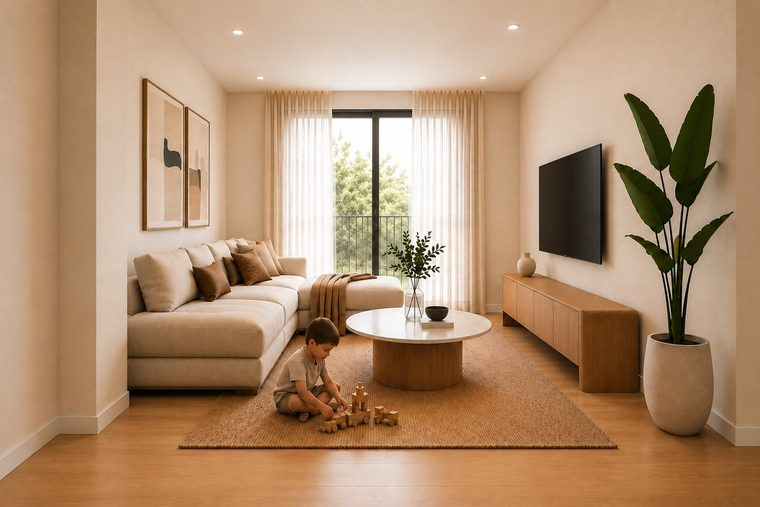
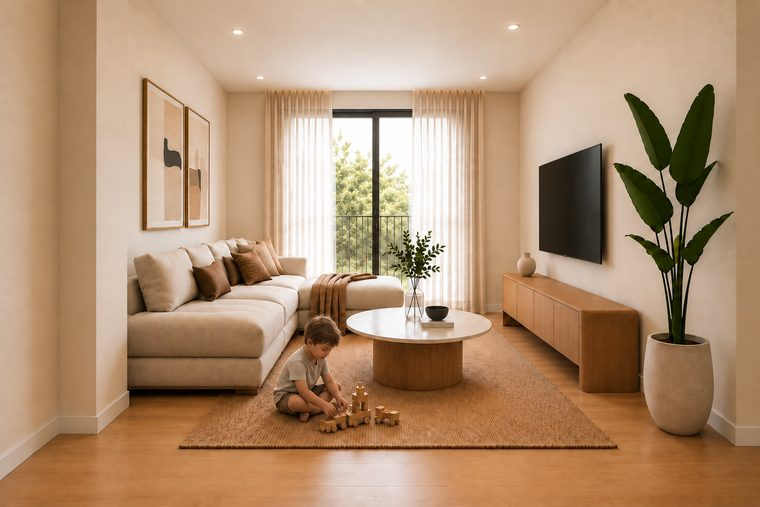
Galería: nuevo render del salón (versión retocada)

diff --git a/fr/index.html b/fr/index.html
@@ -347,7 +347,7 @@
       <figure class="gA rv"><picture><source media="(max-width:760px)" srcset="/assets/img/foto-terraza-m.webp" type="image/webp"><source media="(max-width:760px)" srcset="/assets/img/foto-terraza-m.jpg"><source srcset="/assets/img/foto-terraza.webp" type="image/webp"><img src="/assets/img/foto-terraza.jpg" alt="Solarium privé avec bains de soleil, table et jardinières" loading="lazy" decoding="async" width="1254" height="1254"></picture></figure>
       <figure class="gB rv"><picture><source media="(max-width:760px)" srcset="/assets/img/foto-cocina-m.webp" type="image/webp"><source media="(max-width:760px)" srcset="/assets/img/foto-cocina-m.jpg"><source srcset="/assets/img/foto-cocina.webp" type="image/webp"><img src="/assets/img/foto-cocina.jpg" alt="Cuisine aux façades ton bois avec table à manger" loading="lazy" decoding="async" width="1086" height="1448"></picture></figure>
       <div class="gq rv"><p class="serif it">Le soleil en hiver, les dîners en plein air en été.</p></div>
-      <figure class="gC rv"><picture><source media="(max-width:760px)" srcset="/assets/img/foto-salon-m.webp" type="image/webp"><source media="(max-width:760px)" srcset="/assets/img/foto-salon-m.jpg"><source srcset="/assets/img/foto-salon.webp" type="image/webp"><img src="/assets/img/foto-salon.jpg" alt="Séjour avec canapé, tapis et baie vitrée" loading="lazy" decoding="async" width="1536" height="1024"></picture></figure>
+      <figure class="gC rv"><picture><source media="(max-width:760px)" srcset="/assets/img/foto-salon-m.webp?v=2" type="image/webp"><source media="(max-width:760px)" srcset="/assets/img/foto-salon-m.jpg?v=2"><source srcset="/assets/img/foto-salon.webp?v=2" type="image/webp"><img src="/assets/img/foto-salon.jpg?v=2" alt="Séjour avec canapé, tapis et baie vitrée" loading="lazy" decoding="async" width="1536" height="1024"></picture></figure>
       <figure class="gD rv"><picture><source media="(max-width:760px)" srcset="/assets/img/foto-dormitorio2-m.webp" type="image/webp"><source media="(max-width:760px)" srcset="/assets/img/foto-dormitorio2-m.jpg"><source srcset="/assets/img/foto-dormitorio2.webp" type="image/webp"><img src="/assets/img/foto-dormitorio2.jpg" alt="Chambre avec tête de lit capitonnée et baie vitrée" loading="lazy" decoding="async" width="1122" height="1402"></picture></figure>
       <figure class="g5 rv"><picture><source media="(max-width:760px)" srcset="/assets/img/foto-fachada-noche-m.webp" type="image/webp"><source media="(max-width:760px)" srcset="/assets/img/foto-fachada-noche-m.jpg"><source srcset="/assets/img/foto-fachada-noche.webp" type="image/webp"><img src="/assets/img/foto-fachada-noche.jpg" alt="Façade de l’immeuble illuminée à la tombée de la nuit" loading="lazy" decoding="async" width="1448" height="1086"></picture></figure>
       <figure class="g5 rv"><picture><source media="(max-width:760px)" srcset="/assets/img/foto-bano-m.webp" type="image/webp"><source media="(max-width:760px)" srcset="/assets/img/foto-bano-m.jpg"><source srcset="/assets/img/foto-bano.webp" type="image/webp"><img src="/assets/img/foto-bano.jpg" alt="Salle de bains avec douche vitrée et meuble suspendu" loading="lazy" decoding="async" width="1122" height="1402"></picture></figure>

diff --git a/en/index.html b/en/index.html
@@ -347,7 +347,7 @@
       <figure class="gA rv"><picture><source media="(max-width:760px)" srcset="/assets/img/foto-terraza-m.webp" type="image/webp"><source media="(max-width:760px)" srcset="/assets/img/foto-terraza-m.jpg"><source srcset="/assets/img/foto-terraza.webp" type="image/webp"><img src="/assets/img/foto-terraza.jpg" alt="Private roof terrace with sun loungers, table and planters" loading="lazy" decoding="async" width="1254" height="1254"></picture></figure>
       <figure class="gB rv"><picture><source media="(max-width:760px)" srcset="/assets/img/foto-cocina-m.webp" type="image/webp"><source media="(max-width:760px)" srcset="/assets/img/foto-cocina-m.jpg"><source srcset="/assets/img/foto-cocina.webp" type="image/webp"><img src="/assets/img/foto-cocina.jpg" alt="Kitchen with wood-tone units and a dining table" loading="lazy" decoding="async" width="1086" height="1448"></picture></figure>
       <div class="gq rv"><p class="serif it">Sun in winter, dinners outdoors in summer.</p></div>
-      <figure class="gC rv"><picture><source media="(max-width:760px)" srcset="/assets/img/foto-salon-m.webp" type="image/webp"><source media="(max-width:760px)" srcset="/assets/img/foto-salon-m.jpg"><source srcset="/assets/img/foto-salon.webp" type="image/webp"><img src="/assets/img/foto-salon.jpg" alt="Living room with sofa, rug and window to the outside" loading="lazy" decoding="async" width="1536" height="1024"></picture></figure>
+      <figure class="gC rv"><picture><source media="(max-width:760px)" srcset="/assets/img/foto-salon-m.webp?v=2" type="image/webp"><source media="(max-width:760px)" srcset="/assets/img/foto-salon-m.jpg?v=2"><source srcset="/assets/img/foto-salon.webp?v=2" type="image/webp"><img src="/assets/img/foto-salon.jpg?v=2" alt="Living room with sofa, rug and window to the outside" loading="lazy" decoding="async" width="1536" height="1024"></picture></figure>
       <figure class="gD rv"><picture><source media="(max-width:760px)" srcset="/assets/img/foto-dormitorio2-m.webp" type="image/webp"><source media="(max-width:760px)" srcset="/assets/img/foto-dormitorio2-m.jpg"><source srcset="/assets/img/foto-dormitorio2.webp" type="image/webp"><img src="/assets/img/foto-dormitorio2.jpg" alt="Bedroom with upholstered headboard and window" loading="lazy" decoding="async" width="1122" height="1402"></picture></figure>
       <figure class="g5 rv"><picture><source media="(max-width:760px)" srcset="/assets/img/foto-fachada-noche-m.webp" type="image/webp"><source media="(max-width:760px)" srcset="/assets/img/foto-fachada-noche-m.jpg"><source srcset="/assets/img/foto-fachada-noche.webp" type="image/webp"><img src="/assets/img/foto-fachada-noche.jpg" alt="The building’s façade lit up at nightfall" loading="lazy" decoding="async" width="1448" height="1086"></picture></figure>
       <figure class="g5 rv"><picture><source media="(max-width:760px)" srcset="/assets/img/foto-bano-m.webp" type="image/webp"><source media="(max-width:760px)" srcset="/assets/img/foto-bano-m.jpg"><source srcset="/assets/img/foto-bano.webp" type="image/webp"><img src="/assets/img/foto-bano.jpg" alt="Bathroom with glass shower and wall-hung vanity unit" loading="lazy" decoding="async" width="1122" height="1402"></picture></figure>

diff --git a/index.html b/index.html
@@ -347,7 +347,7 @@
       <figure class="gA rv"><picture><source media="(max-width:760px)" srcset="/assets/img/foto-terraza-m.webp" type="image/webp"><source media="(max-width:760px)" srcset="/assets/img/foto-terraza-m.jpg"><source srcset="/assets/img/foto-terraza.webp" type="image/webp"><img src="/assets/img/foto-terraza.jpg" alt="Solárium privado con tumbonas, mesa y jardineras" loading="lazy" decoding="async" width="1254" height="1254"></picture></figure>
       <figure class="gB rv"><picture><source media="(max-width:760px)" srcset="/assets/img/foto-cocina-m.webp" type="image/webp"><source media="(max-width:760px)" srcset="/assets/img/foto-cocina-m.jpg"><source srcset="/assets/img/foto-cocina.webp" type="image/webp"><img src="/assets/img/foto-cocina.jpg" alt="Cocina con frentes en tono madera y mesa de comedor" loading="lazy" decoding="async" width="1086" height="1448"></picture></figure>
       <div class="gq rv"><p class="serif it">Sol en invierno, cenas al aire libre en verano.</p></div>
-      <figure class="gC rv"><picture><source media="(max-width:760px)" srcset="/assets/img/foto-salon-m.webp" type="image/webp"><source media="(max-width:760px)" srcset="/assets/img/foto-salon-m.jpg"><source srcset="/assets/img/foto-salon.webp" type="image/webp"><img src="/assets/img/foto-salon.jpg" alt="Salón con sofá, alfombra y ventanal al exterior" loading="lazy" decoding="async" width="1536" height="1024"></picture></figure>
+      <figure class="gC rv"><picture><source media="(max-width:760px)" srcset="/assets/img/foto-salon-m.webp?v=2" type="image/webp"><source media="(max-width:760px)" srcset="/assets/img/foto-salon-m.jpg?v=2"><source srcset="/assets/img/foto-salon.webp?v=2" type="image/webp"><img src="/assets/img/foto-salon.jpg?v=2" alt="Salón con sofá, alfombra y ventanal al exterior" loading="lazy" decoding="async" width="1536" height="1024"></picture></figure>
       <figure class="gD rv"><picture><source media="(max-width:760px)" srcset="/assets/img/foto-dormitorio2-m.webp" type="image/webp"><source media="(max-width:760px)" srcset="/assets/img/foto-dormitorio2-m.jpg"><source srcset="/assets/img/foto-dormitorio2.webp" type="image/webp"><img src="/assets/img/foto-dormitorio2.jpg" alt="Dormitorio con cabecero tapizado y ventanal" loading="lazy" decoding="async" width="1122" height="1402"></picture></figure>
       <figure class="g5 rv"><picture><source media="(max-width:760px)" srcset="/assets/img/foto-fachada-noche-m.webp" type="image/webp"><source media="(max-width:760px)" srcset="/assets/img/foto-fachada-noche-m.jpg"><source srcset="/assets/img/foto-fachada-noche.webp" type="image/webp"><img src="/assets/img/foto-fachada-noche.jpg" alt="Fachada del edificio iluminada al anochecer" loading="lazy" decoding="async" width="1448" height="1086"></picture></figure>
       <figure class="g5 rv"><picture><source media="(max-width:760px)" srcset="/assets/img/foto-bano-m.webp" type="image/webp"><source media="(max-width:760px)" srcset="/assets/img/foto-bano-m.jpg"><source srcset="/assets/img/foto-bano.webp" type="image/webp"><img src="/assets/img/foto-bano.jpg" alt="Baño con ducha de vidrio y mueble suspendido" loading="lazy" decoding="async" width="1122" height="1402"></picture></figure>

diff --git a/src/template.html b/src/template.html
@@ -197,7 +197,7 @@
       <figure class="gA rv"><picture><source media="(max-width:760px)" srcset="/assets/img/foto-terraza-m.webp" type="image/webp"><source media="(max-width:760px)" srcset="/assets/img/foto-terraza-m.jpg"><source srcset="/assets/img/foto-terraza.webp" type="image/webp"><img src="/assets/img/foto-terraza.jpg" alt="{{gal.a_terraza}}" loading="lazy" decoding="async" width="1254" height="1254"></picture></figure>
       <figure class="gB rv"><picture><source media="(max-width:760px)" srcset="/assets/img/foto-cocina-m.webp" type="image/webp"><source media="(max-width:760px)" srcset="/assets/img/foto-cocina-m.jpg"><source srcset="/assets/img/foto-cocina.webp" type="image/webp"><img src="/assets/img/foto-cocina.jpg" alt="{{gal.a_cocina}}" loading="lazy" decoding="async" width="1086" height="1448"></picture></figure>
       <div class="gq rv"><p class="serif it">{{gal.quote}}</p></div>
-      <figure class="gC rv"><picture><source media="(max-width:760px)" srcset="/assets/img/foto-salon-m.webp" type="image/webp"><source media="(max-width:760px)" srcset="/assets/img/foto-salon-m.jpg"><source srcset="/assets/img/foto-salon.webp" type="image/webp"><img src="/assets/img/foto-salon.jpg" alt="{{gal.a_salon}}" loading="lazy" decoding="async" width="1536" height="1024"></picture></figure>
+      <figure class="gC rv"><picture><source media="(max-width:760px)" srcset="/assets/img/foto-salon-m.webp?v=2" type="image/webp"><source media="(max-width:760px)" srcset="/assets/img/foto-salon-m.jpg?v=2"><source srcset="/assets/img/foto-salon.webp?v=2" type="image/webp"><img src="/assets/img/foto-salon.jpg?v=2" alt="{{gal.a_salon}}" loading="lazy" decoding="async" width="1536" height="1024"></picture></figure>
       <figure class="gD rv"><picture><source media="(max-width:760px)" srcset="/assets/img/foto-dormitorio2-m.webp" type="image/webp"><source media="(max-width:760px)" srcset="/assets/img/foto-dormitorio2-m.jpg"><source srcset="/assets/img/foto-dormitorio2.webp" type="image/webp"><img src="/assets/img/foto-dormitorio2.jpg" alt="{{gal.a_dorm2}}" loading="lazy" decoding="async" width="1122" height="1402"></picture></figure>
       <figure class="g5 rv"><picture><source media="(max-width:760px)" srcset="/assets/img/foto-fachada-noche-m.webp" type="image/webp"><source media="(max-width:760px)" srcset="/assets/img/foto-fachada-noche-m.jpg"><source srcset="/assets/img/foto-fachada-noche.webp" type="image/webp"><img src="/assets/img/foto-fachada-noche.jpg" alt="{{gal.a_noche}}" loading="lazy" decoding="async" width="1448" height="1086"></picture></figure>
       <figure class="g5 rv"><picture><source media="(max-width:760px)" srcset="/assets/img/foto-bano-m.webp" type="image/webp"><source media="(max-width:760px)" srcset="/assets/img/foto-bano-m.jpg"><source srcset="/assets/img/foto-bano.webp" type="image/webp"><img src="/assets/img/foto-bano.jpg" alt="{{gal.a_bano}}" loading="lazy" decoding="async" width="1122" height="1402"></picture></figure>
